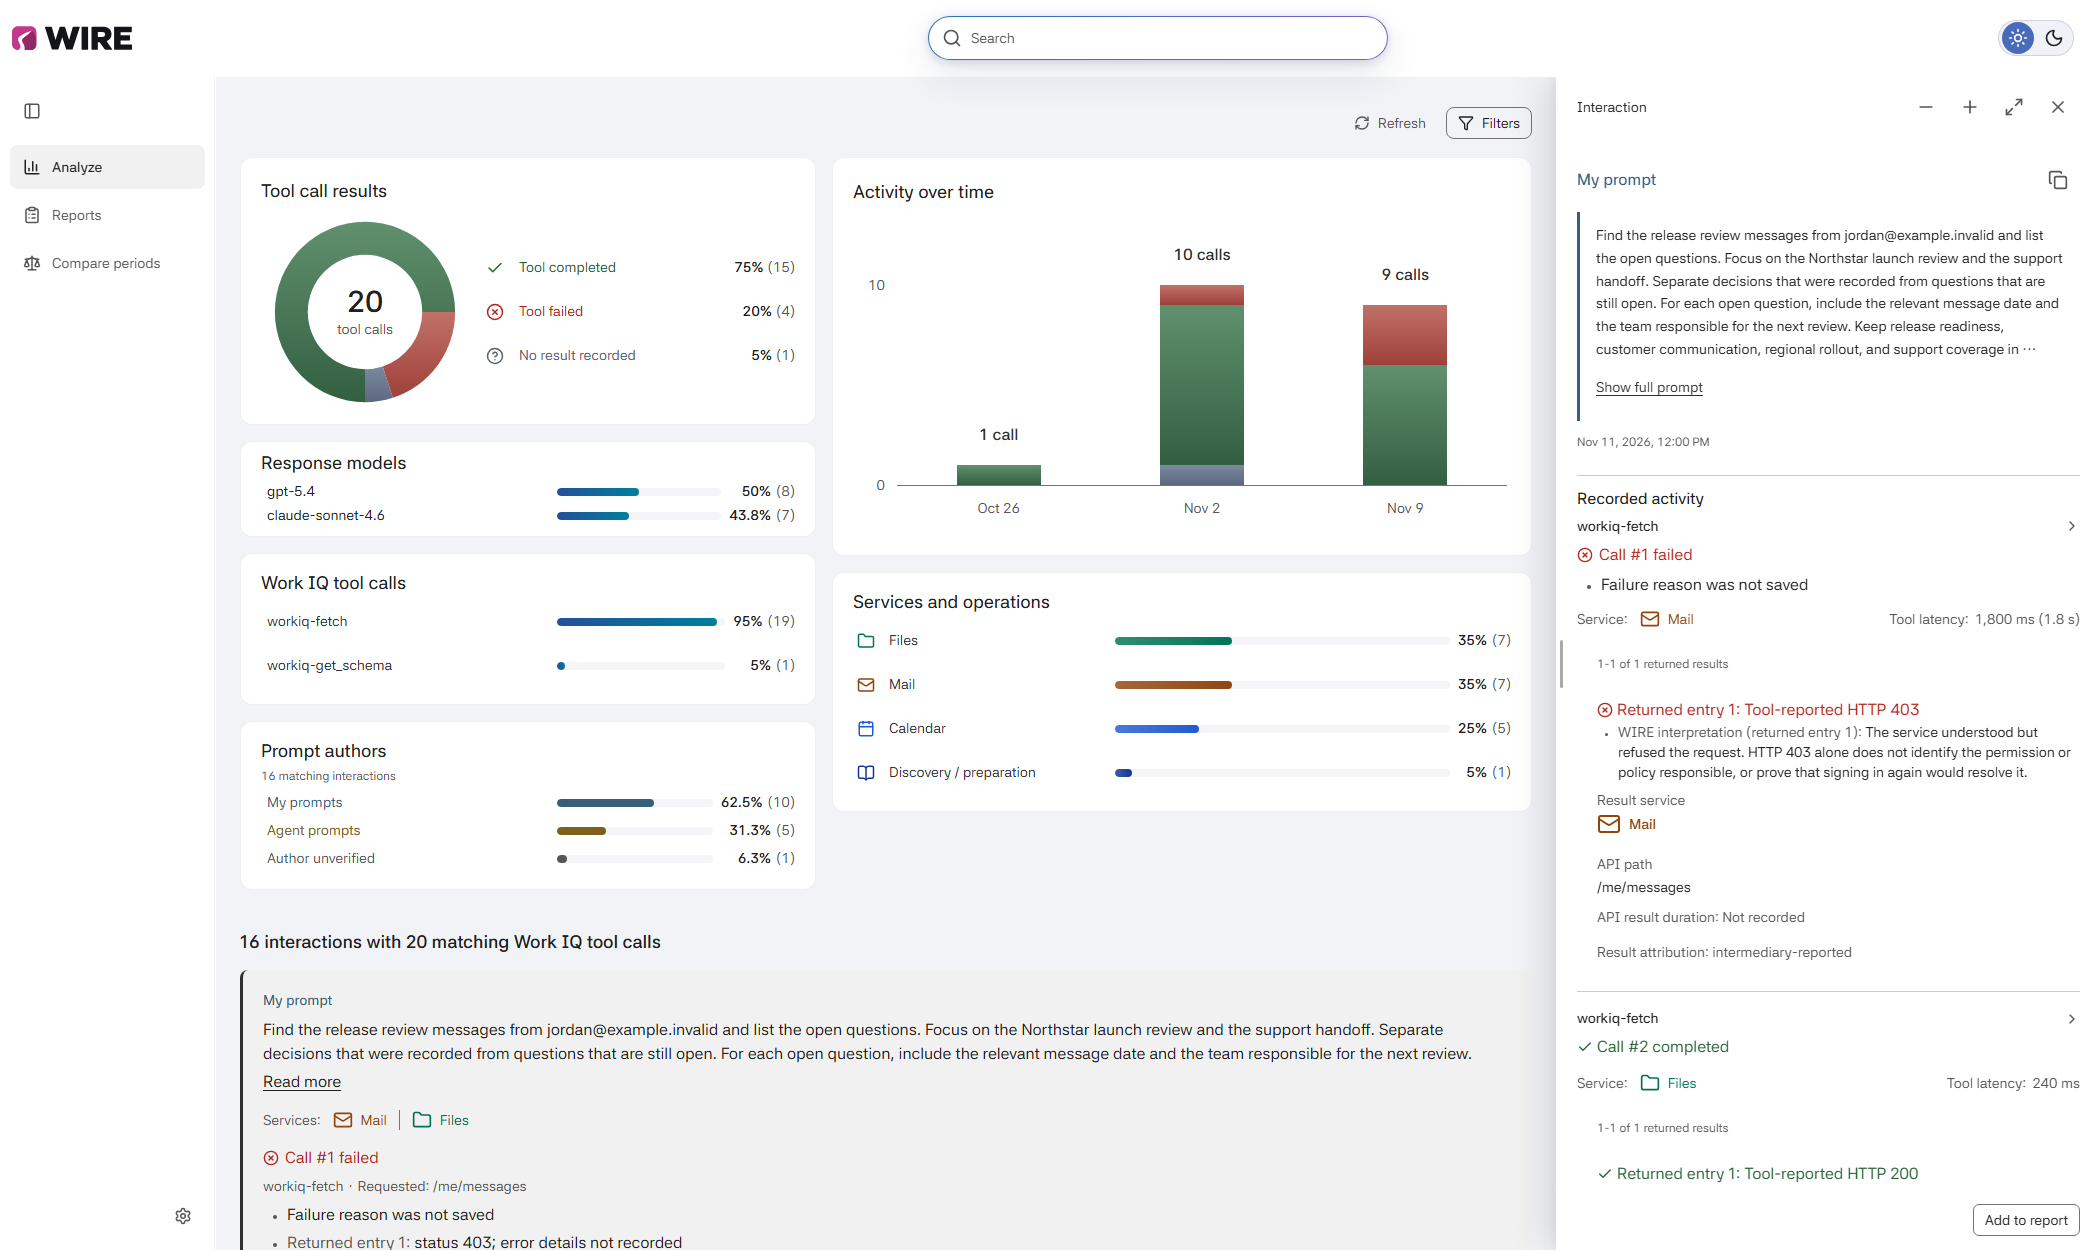
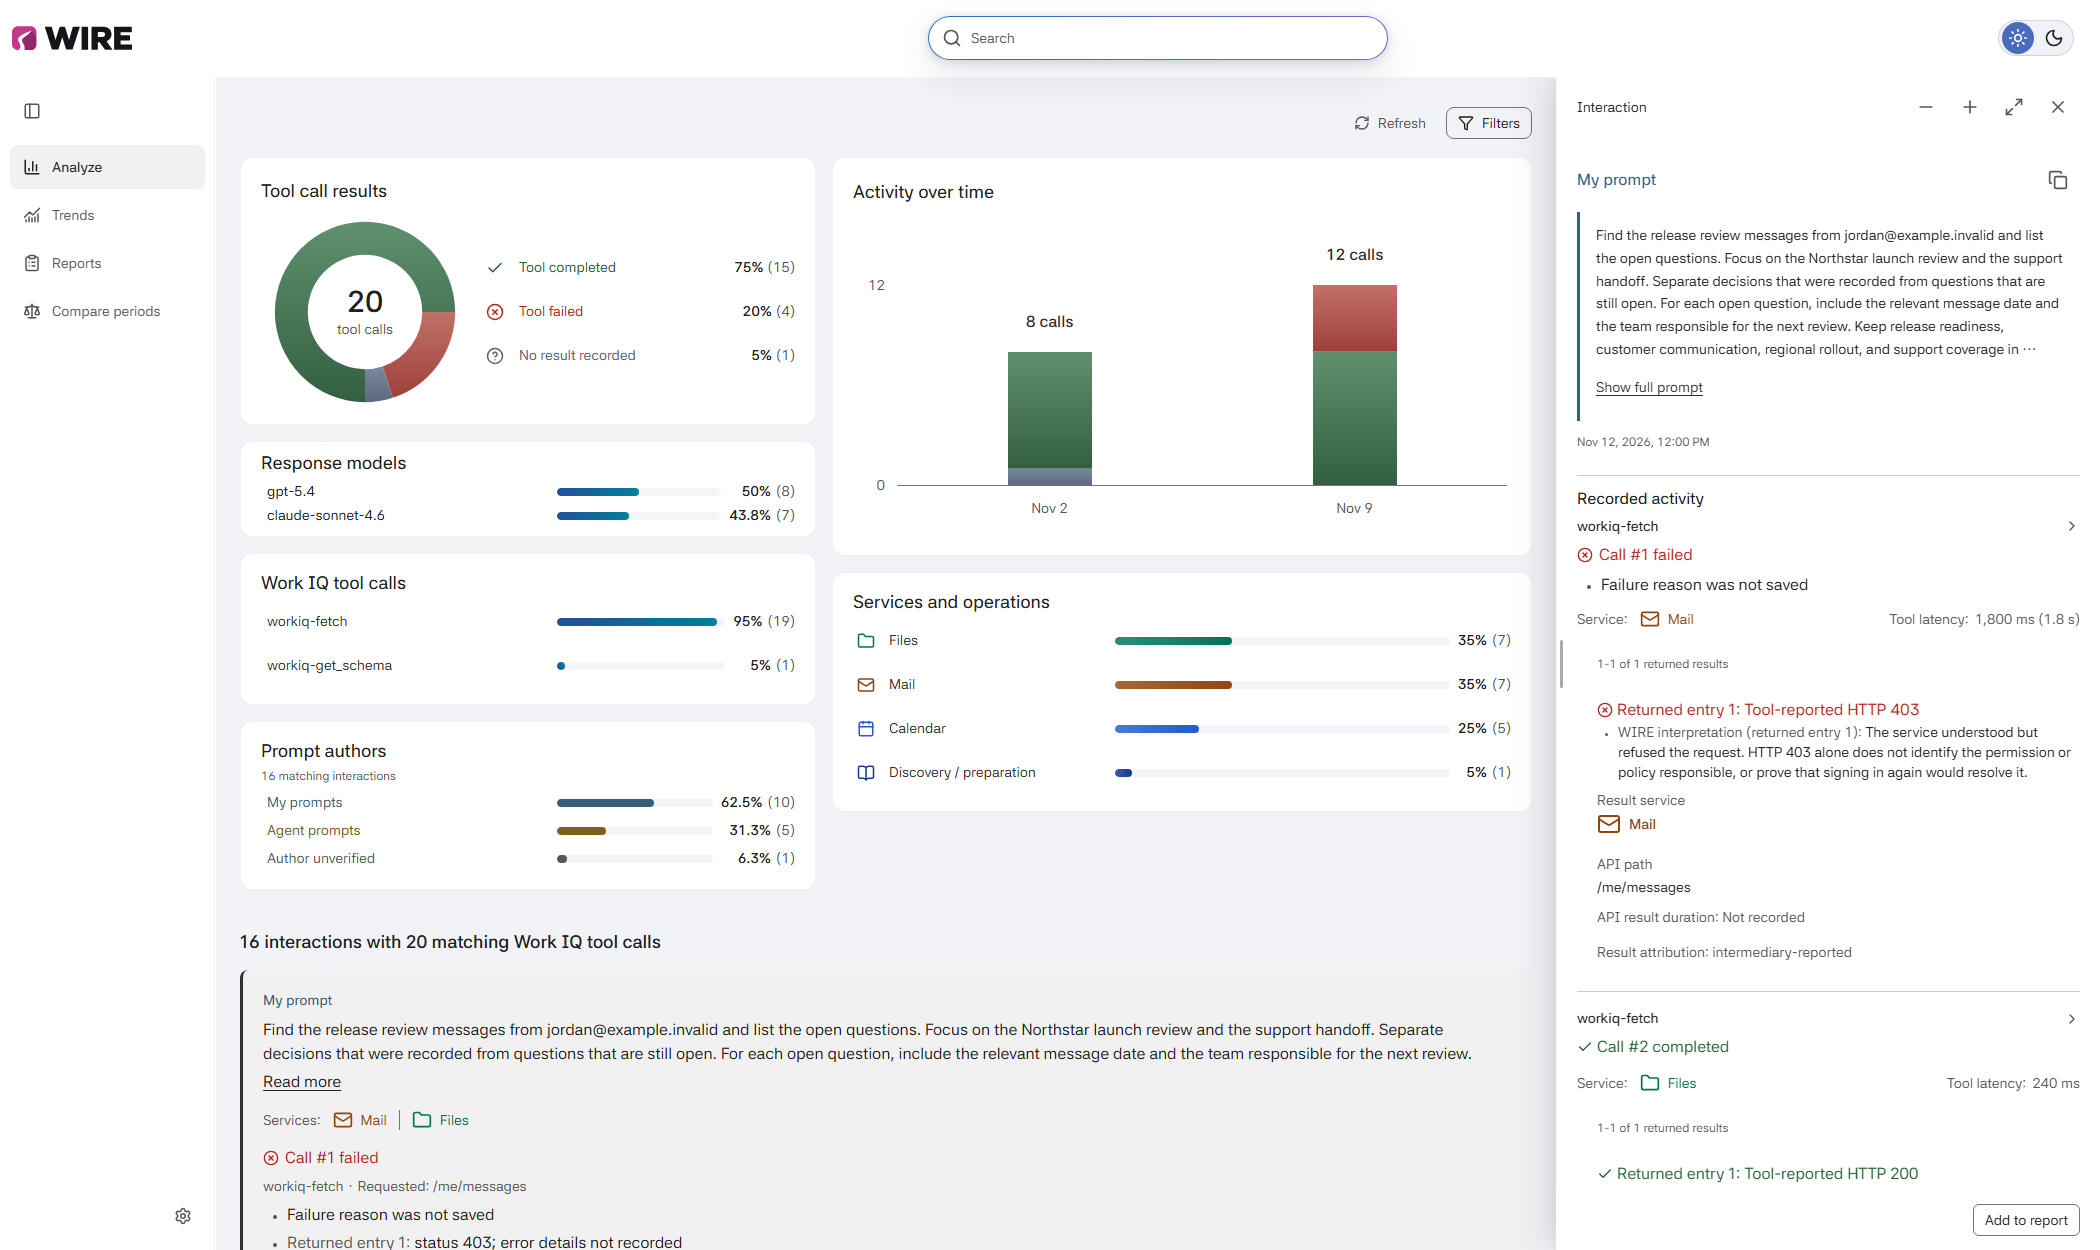
Make Trends discoverable and explain its evidence workflows

Changed region(s): [[0.4333, 0.1872, 0.7119, 0.4056], [0.031, 0.1872, 0.0619, 0.2184], [0.0, 0.156, 0.031, 0.1872]]

diff --git a/docs/user-guide.md b/docs/user-guide.md
@@ -69,40 +69,63 @@ prompt authors and daily activity. Services, errors & failures, response models
 and call duration follow below. The whole chosen period stays useful even
 when there are no calls today.
 
-![Trends with daily tool usage, author composition and supporting charts](images/trends-overview.png)
+![Trends with tool reach, prompt authors, daily calls and four supporting charts.](images/trends-overview.png)
 
-Use a chart's maximize control for more room and a dated evidence breakdown.
-**Back to overview** returns to the same place. Collapse or restore charts
-without losing their measure, series choices or horizontal reading position.
+*Invented activity; Today has no calls, while the period still has data.*
+
+### Choose the period and activity
 
 Use **Last 7 days**, **Last 14 days**, **Last 30 days** or **Custom dates**.
 Every date is labeled, including all 30 days: past dates show month and day,
 and the current day says **Today**. Scroll inside a chart to read earlier dates;
-new ranges open at the latest dates. Long custom ranges page through days
-without changing period totals.
+new ranges open at the latest dates. Custom ranges over 90 days page through
+days without changing full-period totals. Dates use the display time zone and
+include both endpoints; choosing older dates does not collect older history.
 
 **Filters** changes the activity included, even while a chart is maximized.
 Apply author, tool and service choices together; Cancel leaves the scope alone,
 and **Clear filters** restores the unrestricted period. The series checkboxes only
 show or hide lines; they do not recalculate percentage denominators.
-Tool **Interaction reach** measures how many interactions used a tool at least
-once, while **Call share** measures its portion of all calls. Both keep their
-supporting counts. Changes in shares use percentage points, not relative growth.
 
-Hover or focus a mark for its date and relevant values. Arrow keys move between
-dates and series; select a mark and choose **View evidence** for its matching
-calls, not the other series' calls. Opening a call shows its full interaction;
-closing the reader returns to the same selected trend. Hiding the selected
-series does not change its evidence.
-**Chart guide** and **View numbers** explain the measures and exact values.
-Call duration shows the recorded median and P95 together; either can be hidden
-without changing the qualified sample or timing coverage.
+### Read the measures
+
+Period breakdowns summarize the whole chosen range. A dated point uses that
+day's matching population. Changes in shares use percentage points, not relative
+growth. **Chart guide** and **View numbers** explain the measures and exact values.
+
+| Chart | Measure |
+| --- | --- |
+| Tool usage | **Interaction reach** is the share of matching interactions that used a tool at least once. **Call share** is the tool's share of matching calls; **Calls** shows the count. Several tools can reach the same interaction. |
+| Prompt authors | Matching originating interactions, split into My prompts, Agent prompts and Author unverified. Unverified authors stay in the denominator. |
+| Activity rhythm | Matching tool calls per day. **Share within week** uses the matching calls in that calendar week within the selected dates. |
+| Services | Matching calls involving each service, as a share of all matching calls. One call can involve several services, so shares can overlap. Missing service detail and preparation calls remain separate. |
+| Errors & failures | Matching interactions with a failed call or recorded application/API error, as a share of all matching interactions. Unknown call outcomes are separate; a tool can complete while its result contains an error. |
+| Response models | Matching interactions with each recorded model, as a share of all matching interactions. Multiple models can overlap, and interactions without a model name stay in the denominator. |
+| Call duration | Recorded tool-call intervals in milliseconds, summarized as Median and P95. The coverage note identifies how many matching calls have qualified timing. |
 
 Prompt authors counts interactions with activity that day, not every message
 sent in Copilot. One interaction can appear on several days but counts once in
-the whole period. Missing history, undated calls and unavailable measurements
-remain distinct from zero. These are recorded patterns, not answer-quality
-judgments, productivity scores or causal claims.
+the whole period. Call duration shows Median and P95 together; hiding either
+series leaves the timing sample and coverage unchanged. Missing or partial
+history, undated calls and unavailable measurements remain distinct from zero.
+
+### Inspect a change
+
+To investigate a rise in errors or a change in service use, maximize that chart,
+then hover or focus a dated mark for its values. Arrow keys move between dates
+and series. Select the mark and choose **View evidence** to see the calls for
+that exact date and series. Other series' calls are not added to this list.
+
+Open a call to read its result and full parent interaction. That parent context
+can contain calls outside the chart selection. Closing the reader returns to
+the same selected trend; hiding the selected series does not change its evidence.
+
+**Back to overview** returns to the same place. Collapse or restore charts
+without losing their measure, series choices or horizontal reading position.
+These are retained Work IQ patterns, not a census of Copilot prompts,
+answer-quality judgments, productivity scores or evidence of causation.
+For a two-period comparison or a saved copy, use
+[Compare periods](#compare-periods) or [Reports](reporting.md).
 
 ## Compare periods
 

diff --git a/README.md b/README.md
@@ -43,6 +43,21 @@ rerunning its calls, then keeps local evidence for inspection and reports.
 
 See [Architecture](docs/architecture.md) for the local runtime and storage boundaries.
 
+## Trends
+
+See which Work IQ tools appear in your recorded activity and how their use
+varies by day. **Trends** opens seven charts together, with tool usage beside
+prompt authors and daily activity, followed by services, errors, response
+models and call duration.
+
+[![Trends with tool reach, prompt authors, daily calls and four supporting charts.](docs/images/trends-overview.png)](docs/user-guide.md#trends)
+
+*Invented activity; Today has no calls, while the period still has data.*
+
+Choose 7, 14, 30 or custom days, filter the activity, then maximize a chart
+and open the calls behind a dated point. The [Trends guide](docs/user-guide.md#trends)
+explains reach versus call share, overlapping services and evidence gaps.
+
 ## Start
 
 ### Platforms
@@ -109,6 +124,7 @@ to your agents and investigate possible regressions.
 ## Guides
 
 - [Use WIRE](docs/user-guide.md)
+- [Read Trends and inspect supporting calls](docs/user-guide.md#trends)
 - [Create and compare reports](docs/reporting.md)
 - [Develop and troubleshoot](docs/development.md)
 - [Technical documentation](docs/README.md)

diff --git a/docs/README.md b/docs/README.md
@@ -6,6 +6,7 @@ Start with [installation](../README.md), then choose the task you need.
 | --- | --- |
 | Connect local Copilot history for the first time | [Connect local history](user-guide.md#connect-local-history) |
 | Understand recorded activity, inspect a call or find saved text | [Use WIRE](user-guide.md) |
+| Follow daily tool use, services, errors or timing back to recorded calls | [Trends](user-guide.md#trends) |
 | Open a report, adjust its copies, save, reopen or compare | [Create and compare reports](reporting.md) |
 | Understand how recorded Work IQ activity reaches WIRE and where it lives | [Architecture](architecture.md) |
 | Work on the source or troubleshoot a local installation | [Development](development.md) |

diff --git a/docs/reporting.md b/docs/reporting.md
@@ -37,8 +37,10 @@ zone. **Last 14 days**, **Last 30 days** and **Custom dates** are also available
 Custom dates opens the calendar directly; Cancel leaves the accepted dates
 unchanged. Undated activity is not assigned to a dated period.
 
-A fresh report is independent of Analyze filters. To narrow an open report,
-use **Change what's included > Change activity selection**:
+A fresh report is independent of Analyze and Trends filters. After
+[inspecting a dated Trends point](user-guide.md#inspect-a-change), choose the
+report's period and activity explicitly. To narrow an open report, use
+**Change what's included > Change activity selection**:
 
 | Scope | Includes |
 | --- | --- |
